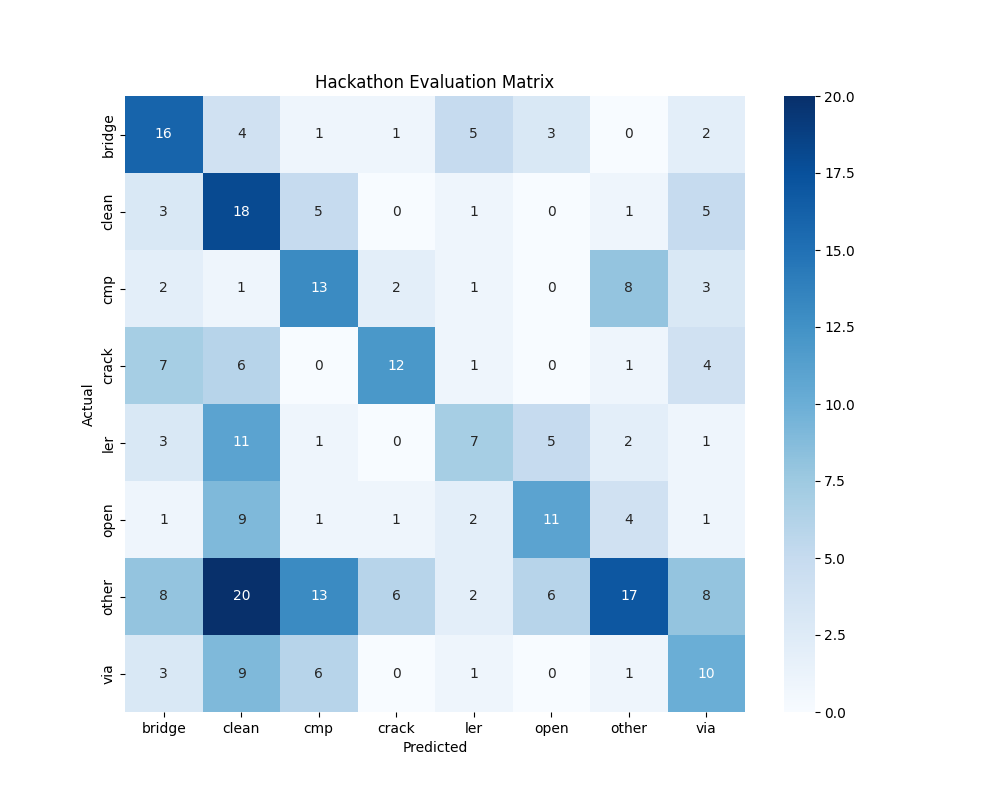
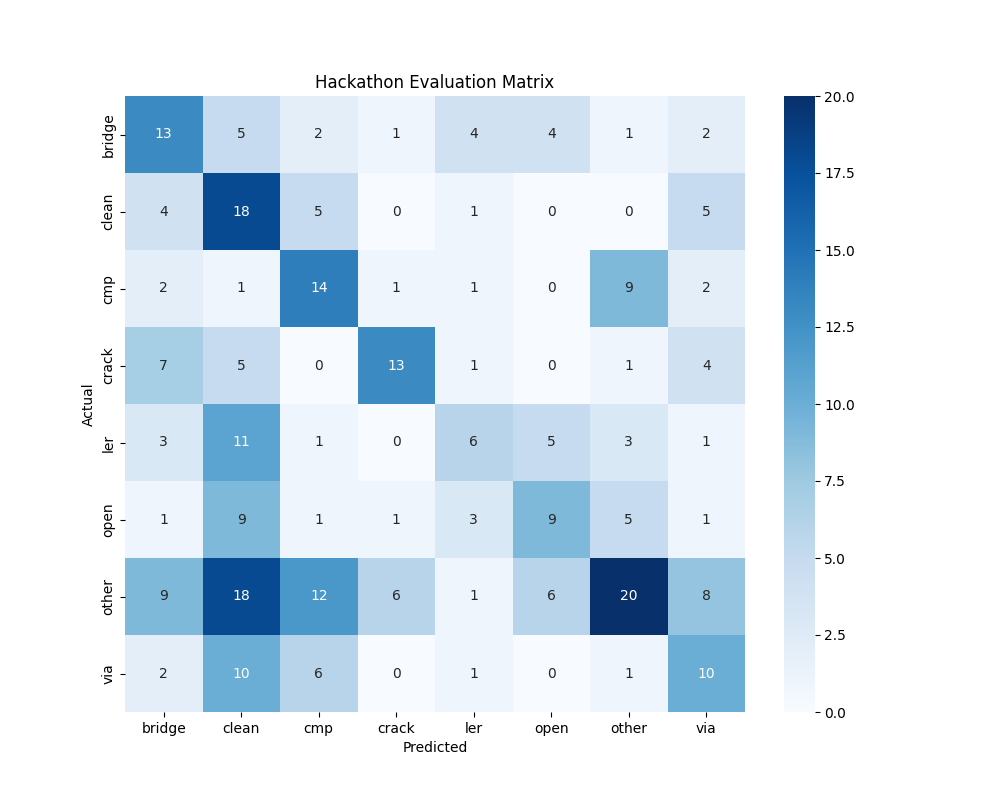
update : adjust temp and approved penalty for clean pred

Changed region(s): [[0.496, 0.5938, 0.682, 0.8125], [0.186, 0.6875, 0.279, 0.8125], [0.124, 0.0938, 0.217, 0.2188]]

diff --git a/evaluation/hackathon_test_dataset_prediction.py b/evaluation/hackathon_test_dataset_prediction.py
@@ -34,8 +34,8 @@ FOLDER_TO_CLASS = {
 }
 
 # Hyperparameters for Inference
-T_SCALE = 0.8        # Sharpen distilled model peaks
-OTHER_THRESHOLD = 0.35  # Force to 'other' if max confidence is low
+T_SCALE = 0.65       # Sharpen distilled model peaks
+OTHER_THRESHOLD = 0.28  # Force to 'other' if max confidence is low
 
 
 # PREPROCESSING
@@ -83,6 +83,11 @@ for folder in os.listdir(DATASET_DIR):
 
         # Run ONNX
         logits = session.run(None, {input_name: x})[0][0]
+
+        # If the model is guessing 'clean' but it's not a strong guess, 
+        # we nudge it toward 'other'
+        clean_idx = CLASS_TO_ID["clean"]
+        logits[clean_idx] -= 0.5  # Artificial penalty to reduce 'clean' false positives
         
         # Apply Temperature and Softmax
         probs = softmax(logits / T_SCALE)
@@ -90,7 +95,7 @@ for folder in os.listdir(DATASET_DIR):
         pred_id = int(np.argmax(probs))
         confidence = float(probs[pred_id])
 
-        # SEMANTIC GUARD: If it's a 'Particle' or model is unsure, force 'other'
+        # SEMANTIC GUARD: If it's a weak prediction, default to 'other' to avoid false positives
         if confidence < OTHER_THRESHOLD:
             pred_id = CLASS_TO_ID["other"]
 
